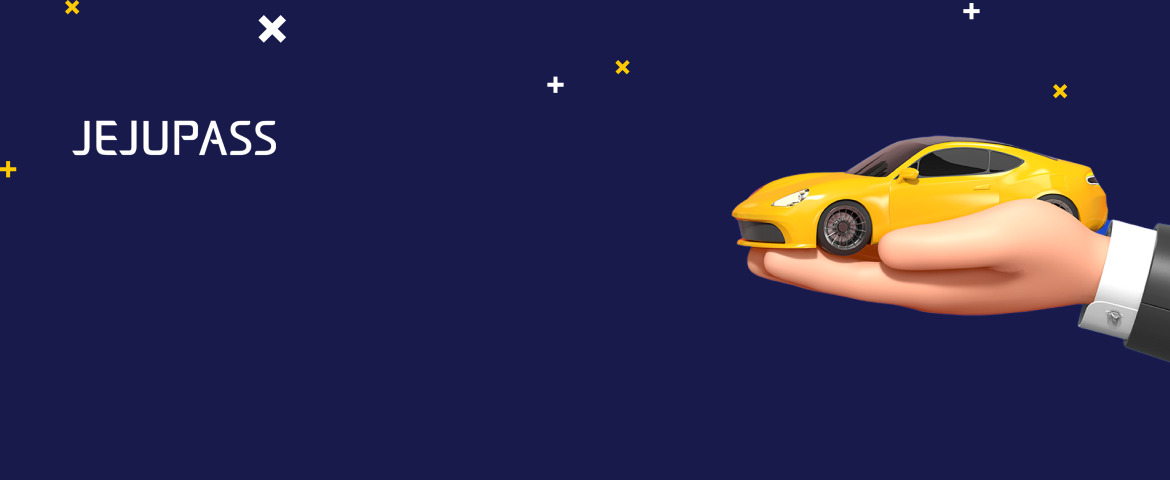
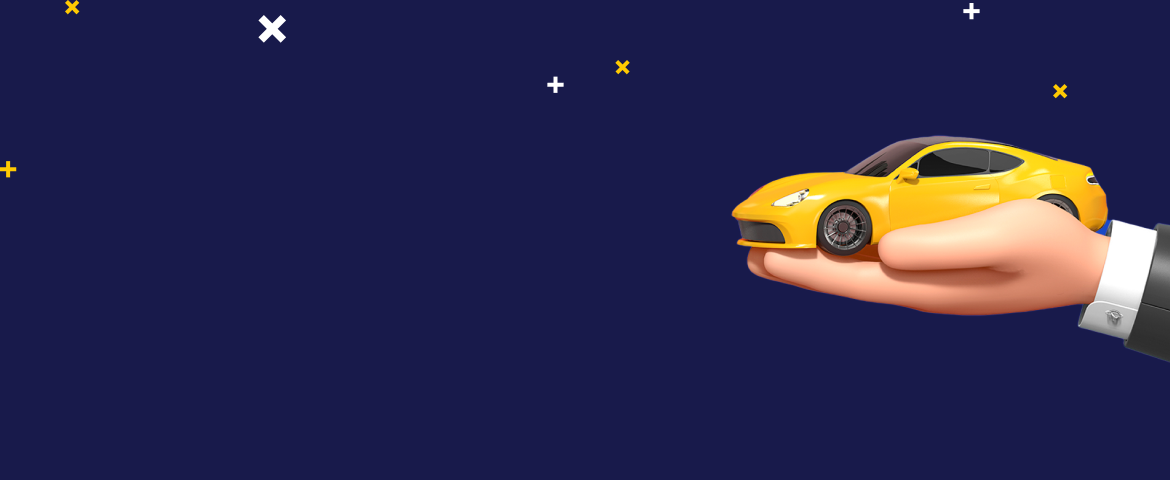
2023-0418

Changed region(s): [[0.0615, 0.25, 0.2462, 0.3438]]

diff --git a/cjs_pek_aerok/scss/_js.scss b/cjs_pek_aerok/scss/_js.scss
@@ -1,20 +1,24 @@
-.wrap {
-  .contents_box{
+
     .swiper.main {  
       width: 100%;      
-      margin-left: 2.4rem;
+      margin-left: 2.4rem;      
       .swiper-wrapper {
         width: 50%;        
         .swiper-slide {           
           position: relative;        
           width: auto;      
           padding-right: 1.2rem;
-          flex-shrink: 0;
-          img {          
-            width: auto;
-            height: 39.1rem;
-            object-fit: contain;
-          }    
+          flex-shrink: 0;      
+          a {
+            width: 100%;
+            height: 100%;
+            img {                   
+              width: auto;
+              height: 39.1rem;
+              object-fit: contain;
+              vertical-align: bottom;
+            }    
+          }   
         }
         .txt_wrap {
           position: absolute;
@@ -34,10 +38,55 @@
           }
         }
       }
-      
+      .swiper-pagination {
+        position: relative;
+        bottom: auto;
+        margin-top: 2.1rem;
+        text-align: left;
+        font-family: var(--sub-font);
+        color: #aaaaaa;
+        .swiper-pagination-current {     
+          margin-right: .6rem;
+          font-size: 4rem;
+          font-weight: 700;
+          line-height: 4.8rem;
+          color: #222222;
+        }
+        .swiper-pagination-total {          
+          margin-left: .6rem;
+          font-weight: 400;
+          font-size: 2rem;
+          line-height: 2.4rem;
+        }
+      }
+    }
+    .pass_banner {
+      position: relative;
+      width: 100%;
+      height: 16rem;
+      margin: 6rem 0;
+      background: url(../images/banner3x.png) center / 100% no-repeat;
+      a {
+        width: 100%;
+        height: 100%;
+      .txt_wrap{
+        position: absolute;
+        top: 50%;
+        left: 2.4rem;
+        transform: translateY(-50%);
+        .jeju_pass {
+          width: 6.8rem;
+          height: 1.2rem;
+          margin-bottom: 1.6rem;
+          background: url(../images/jejupass3x.png) center / 100%  no-repeat;
+        }
+        p {
+          font-size: 2.2rem;
+          font-weight: 700;
+          line-height: 2.6rem;
+          color: #fff;
+        }        
+      }
     }
   }
 
- 
-  
-}

diff --git a/cjs_pek_aerok/js/main.js b/cjs_pek_aerok/js/main.js
@@ -1,8 +1,14 @@
 $(document).ready(function () {
+
   function swipe() {
-    const swiper2 = new Swiper('.swiper', {
-      slidesPerView: 'auto',               
-      effect: 'creative',
+    const swiper1 = new Swiper('.swiper', {
+      slidesPerView: 'auto',     
+      loop: true,          
+      effect: 'creative',  
+      pagination: {
+        el: ".swiper-pagination",
+        type: "fraction",
+      },
       creativeEffect: {
         prev: {
           translate: ['0%', 0, 0],
@@ -10,9 +16,20 @@ $(document).ready(function () {
         next: {
           translate: ['100%', 0, 1],
         },
-      },
-      
-    });
+      },    
+      on: {
+        init : function () {    
+          $('.swiper-pagination-current').text('01')
+          $('.swiper-pagination-total').text('04')    
+        },
+        slideChange : function() {    
+          let currentNum = $('.swiper-pagination-current').text()
+          let totalNum = $('.swiper-pagination-total').text()           
+          $('.swiper-pagination-current').text('0' + currentNum)
+          $('.swiper-pagination-total').text('0' + totalNum)            
+        },
+      },       
+    });   
   } //swipe
 
   swipe();

diff --git a/cjs_pek_aerok/index.html b/cjs_pek_aerok/index.html
@@ -117,6 +117,15 @@
                 </a>
               </div>
             </div>
+            <div class="swiper-pagination"></div>
+          </div>
+          <div class="pass_banner">
+            <a href="#none">
+              <div class="txt_wrap">
+                <div class="jeju_pass"></div>
+                <p>제주패스 렌터카<br>최대 10% 할인 프로모션</p>
+              </div>
+            </a>
           </div>
           <div class="df_box">
             <h2 class="h3_tit">spays &amp; cars</h2>
